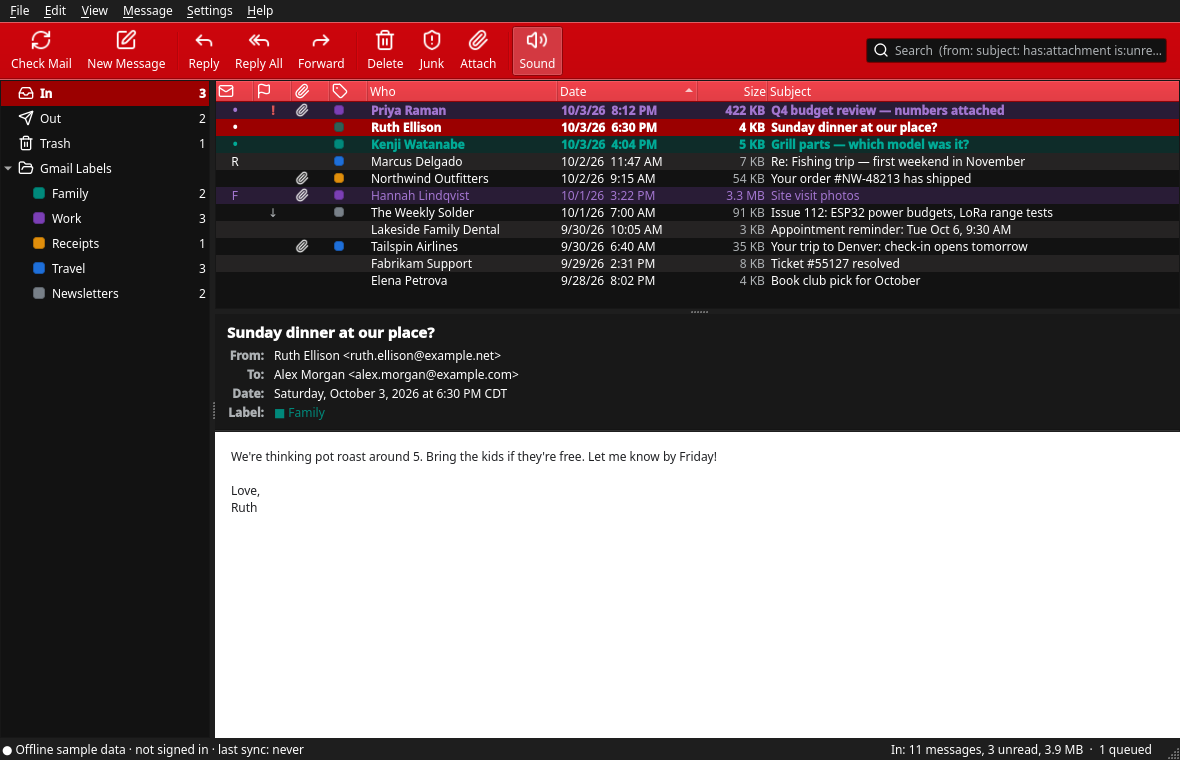
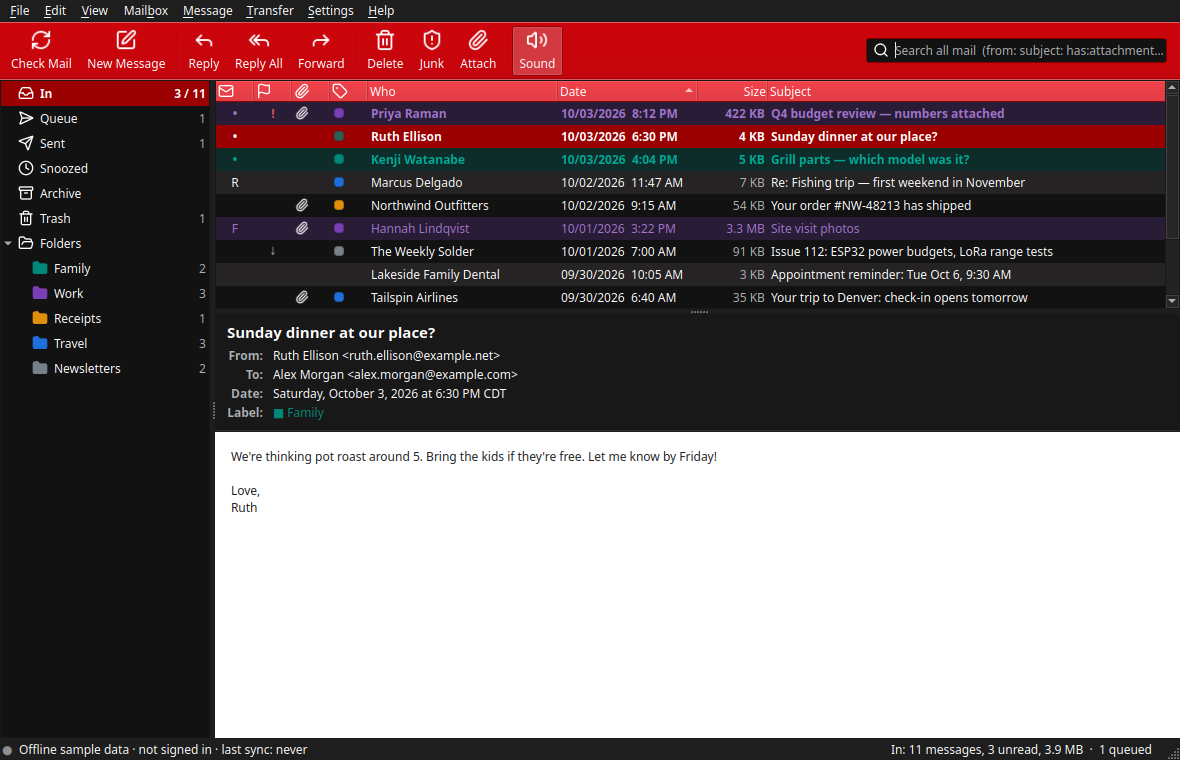
README screenshots from 0.6.16
- Regenerated the nine images the README shows: the sign-in, synced and
  compose shots (tools/mock-screenshots.sh), the three brand-theme
  shots, the Theme Editor and the zmail row of brand-themes.png. They
  now show the Queue mailbox, the tinted dialogs and the current menus.
  The zterminal row of brand-themes.png is carried over unchanged.
- mock-screenshots.sh forces xcb for the mock app: in a Wayland session
  its windows opened on the real desktop, not in Xvfb, and import then
  waited for a click. It now fails with a message when it finds no
  window.
- The compose caption no longer names a version.

diff --git a/README.md b/README.md
@@ -132,7 +132,7 @@ shows the sign-in dialog again.
 |---|---|---|
 | ![](docs/screenshots/gmail-setup.png) | ![](docs/screenshots/gmail-signin.png) | ![](docs/screenshots/gmail-synced.png) |
 
-![Replying in zmail 0.3.0 (mock data)](docs/screenshots/compose-send.png)
+![Replying in zmail (mock data)](docs/screenshots/compose-send.png)
 
 ## Build
 
